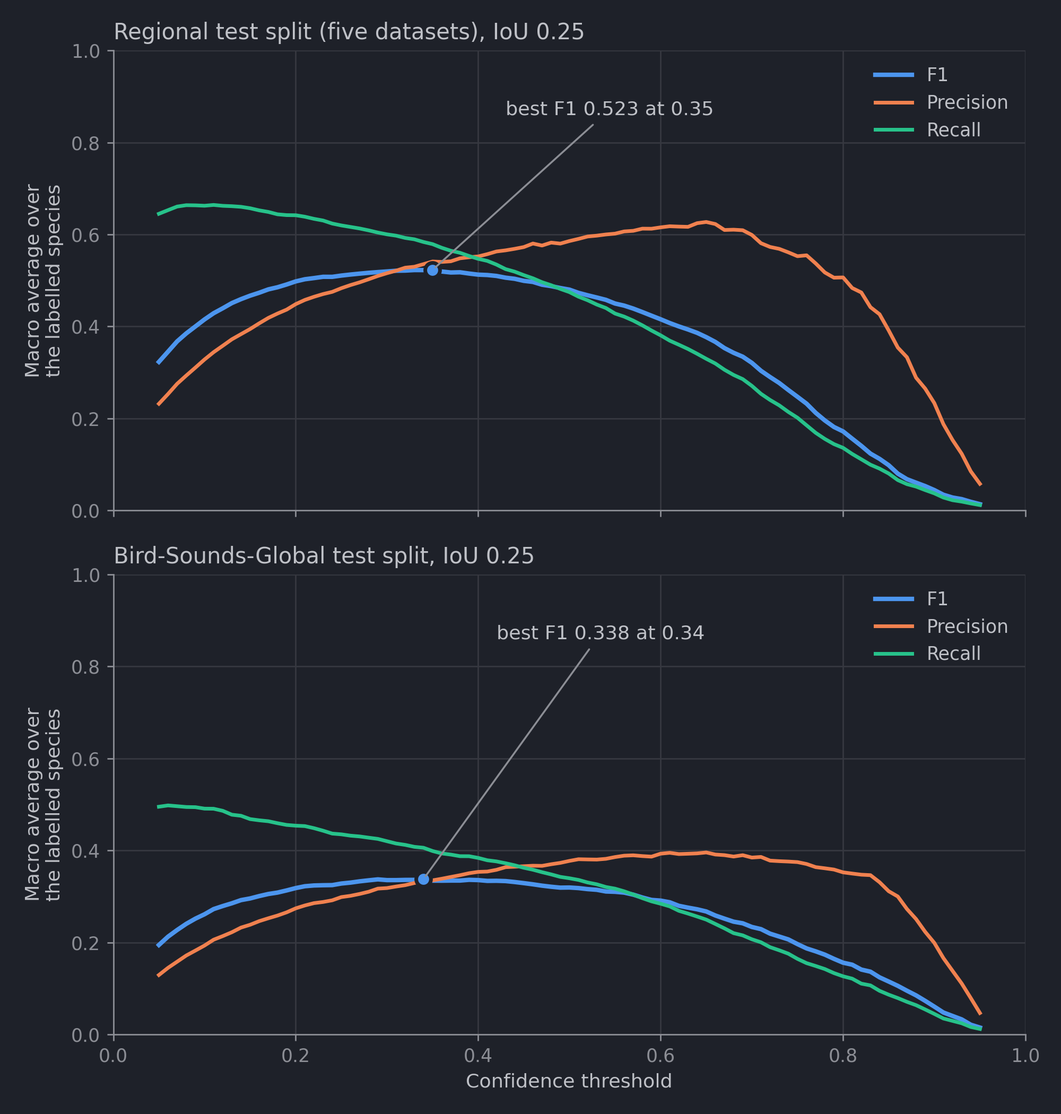
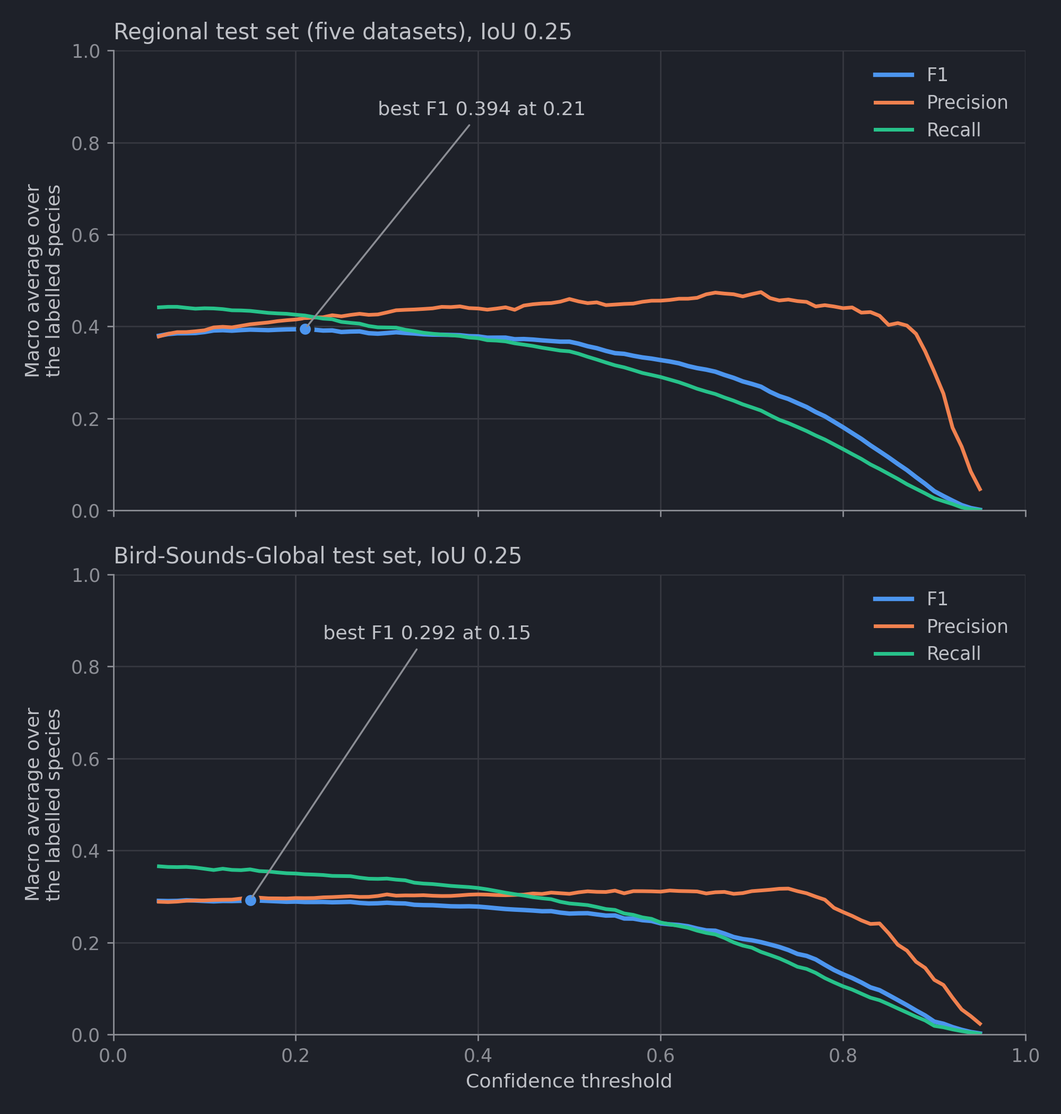
Birds-With-Labels: model page for the bird-class model, names at 0.25
The model page scores BirdBox as it ships: finding calls against Just-Bird,
species by presence and bout-aware matching, and box by box. Boxes named bird
are not counted as species. New F1, top-species and training figures.

Names at a species score of 0.25 instead of 0.15: better on the joined val
splits for whole recordings, inside songs and either way.

Window fusion anchor links follow the renamed heading.

diff --git a/docs/javascripts/demo/demo.js b/docs/javascripts/demo/demo.js
@@ -762,7 +762,7 @@ class Demo {
    * the box is named bird.
    */
   _name(songs, raw, conf) {
-    const d = raw.data, bird = this.model.bird_class_id, need = this.model.label_conf ?? 0.15;
+    const d = raw.data, bird = this.model.bird_class_id, need = this.model.label_conf ?? 0.25;
     if (this._centres?.rows !== raw.rows || this._centres.data !== d) {
       const order = [];
       for (let r = 0; r < raw.rows; r++) order.push(r);

diff --git a/src/inference/utils/bird_labels.py b/src/inference/utils/bird_labels.py
@@ -31,7 +31,10 @@ BIRD_CLASS_NAME = "bird"
 # Species scores pooled over the anchors that overlap a kept box at this IoU.
 DEFAULT_POOL_IOU = 0.5
 # A box is named after its top species when that species' score reaches this.
-DEFAULT_LABEL_CONF = 0.15
+# Joined val (Birds-With-Labels, bird class), best macro F1 at 0.15 / 0.25 / 0.35:
+# presence per recording 0.591 / 0.627 / 0.617, bout-aware inside 0.462 / 0.469 /
+# 0.447, either way 0.471 / 0.478 / 0.458, per 3 s 0.516 / 0.510 / 0.475.
+DEFAULT_LABEL_CONF = 0.25
 TOP_K = 3
 
 

diff --git a/docs/models-and-metrics/birds-with-labels.md b/docs/models-and-metrics/birds-with-labels.md
@@ -2,31 +2,80 @@
 
 The Birds-With-Labels model combines all five zenodo datasets mentioned in the [introduction](overview.md#available-models) with Bird-Sounds-Global, annotated soundscapes from [xeno-canto](https://xeno-canto.org){ target="_blank" rel="noopener noreferrer" }.
 The five datasets bring almost 407 hours of soundscape recordings with 155,584 bounding box labels of 281 bird species. Bird-Sounds-Global adds 111 hours with 62,030 labels of 765 species from many countries.
-The model has 633 classes: the 281 regional species, the 351 Bird-Sounds-Global species with at least 10 training labels in at least 3 recordings, and the unknown class `????` for the rest.
+The model has 634 classes: the 281 regional species, the 351 Bird-Sounds-Global species with at least 10 training labels in at least 3 recordings, the unknown class `????` for the rest, and `bird` for calls of any species.
+
+It finds calls as [Just-Bird](just-bird.md) does, with one tight box per call, and names each box after its species when it is sure. Otherwise the box is named `bird`. [Species Names](../how-it-works/overview.md#species-names) explains how.
+
+!!! info "Call boxes and a bird class (November 2026)"
+    Until November 2026 the model drew one box per species over a whole song, and found far fewer calls than Just-Bird. The current model was trained on call boxes and has a `bird` class that every box trains, whatever its species. Its classes 0 to 632 keep their ids, so the species mapping `Birds-With-Labels` serves both models. BirdBox recognises the new model by its last class, `bird`.
 
 !!! info "Formerly All-In-One"
     Until 28 October 2026 this model was called All-In-One. Files made before then still carry the old name: rename `All-In-One.pt` to `Birds-With-Labels_fp32.pt` and pass `--species-mapping Birds-With-Labels`. BirdBox no longer accepts the old name.
 
-!!! info "Bird-Sounds-Global species (November 2026)"
-    Until November 2026 the model knew only the 282 classes of the five datasets. The current model learned 351 more species from Bird-Sounds-Global. It was trained on spectrograms with the rolling 60 s noise floor, BirdBox's default. The scores on this page were measured with the deprecated segment floor, and the rolling floor scores the same (see [Floor](#floor)).
-
-    The previous model's classes keep their ids, so the species mapping `Birds-With-Labels` serves both models.
-
 More on Birds-With-Labels:
 
-- [Training](birds-with-labels-training.md): training curves and boxes per species and split.
+- [Training](birds-with-labels-training.md): how the call boxes and the bird class were trained, and boxes per species and split.
 - [Model Types](birds-with-labels-model-types.md): the export formats and how closely they match the PyTorch model.
+
+All scores on this page come from BirdBox as it ships: the rolling noise floor (each test minute after the audio before it), window fusion with a 0.05 s phrase gap, and names at a species score of 0.25. The thresholds are chosen on the val splits.
+
+---
+
+## Finding Calls
+
+With species ignored, the model finds calls as well as Just-Bird. Every box and every label counts as `bird`, so F1 measures finding calls alone. Both models use Just-Bird's NMS (IoU 0.5) and the merge and threshold that score best on val.
+
+| Test set | Just-Bird | Birds-With-Labels |
+| :--- | :---: | :---: |
+| Five datasets, IoU 0.25 | 0.404 | 0.412 |
+| Five datasets, IoU 0.5 | 0.223 | 0.235 |
+| Bird-Sounds-Global, IoU 0.25 | 0.367 | 0.377 |
+| Bird-Sounds-Global, IoU 0.5 | 0.195 | 0.197 |
+| Hawai'i and Southern Sierra Nevada (labelled per call), IoU 0.5 | 0.558 | 0.576 |
+| Hawai'i and Southern Sierra Nevada (labelled per call), IoU 0.75 | 0.297 | 0.291 |
+
+Just-Bird was trained on the test splits of Birds-With-Labels too, so it has seen these recordings. On 14 soundscapes from other places, Just-Bird's boxes (confidence 0.15) serve as the reference. The model draws about as many boxes, covers 76% of Just-Bird's (each by at least half of its duration), and 7% of its boxes lie elsewhere. The previous model covered 31%.
+
+---
+
+## Species
+
+Two kinds of test tell apart how well the model names species and how well its boxes match the labels. Most labels of the five datasets and Bird-Sounds-Global box a whole song, while the model boxes each call.
+
+**Which species are there, and where.** These tests do not depend on the shape of the boxes. Presence asks whether a species is detected in each 3 s segment or recording where it is labelled. Bout-aware matching counts a label as found when boxes of its species lie inside it, and a box as correct when it lies inside a label of its species. Macro F1 over the labelled species of the five datasets and Bird-Sounds-Global together:
+
+| Test | Previous model | Birds-With-Labels |
+| :--- | :---: | :---: |
+| Presence, 3 s segments | 0.515 | 0.512 |
+| Presence, whole recordings | 0.610 | 0.621 |
+| Bout-aware, boxes inside a label | 0.440 | 0.477 |
+| Bout-aware, either way | 0.477 | 0.486 |
+
+The model names species as well as the previous one, and better within songs.
+
+**Box by box.** Each box has to overlap a label of its species at the given IoU:
+
+| Test set | Previous model | Birds-With-Labels |
+| :--- | :---: | :---: |
+| Five datasets, IoU 0.25 | 0.524 | 0.389 |
+| Bird-Sounds-Global, IoU 0.25 | 0.337 | 0.304 |
+| Hawai'i and Southern Sierra Nevada (labelled per call), IoU 0.5 | 0.488 | 0.492 |
+| Hawai'i and Southern Sierra Nevada (labelled per call), IoU 0.75 | 0.247 | 0.260 |
+
+On labels per call the model is as good as the previous one, and its boxes are tighter. On song labels it scores lower: one song label meets several call boxes, and at most one of them can match it.
+
+Boxes named `bird` are not counted in these tests. They claim a call, not a species.
 
 ---
 
 ## Precision, Recall and F1-Score
 
-The graph below shows the performance of the model on the **test splits** under different confidence thresholds: precision, recall and the F1-score, each averaged over the species with test labels (macro average).
-The upper panel is the test split of the five datasets, the lower one the test split of Bird-Sounds-Global.
-To optimize the F1-score, pick a confidence threshold around 0.35. The demo starts at 0.25, which keeps more detections at a lower precision.
+The graph below shows precision, recall and F1 on the **test splits** against the confidence threshold, each averaged over the species with test labels (macro average), at IoU 0.25.
+The upper panel is the test split of the five datasets, the lower one the test split of Bird-Sounds-Global. The confidence is the bird score, so the threshold decides which calls are found. Which of them get a species name is decided by the species score.
+Both test splits are labelled mostly per song, so the scores are lower than on call labels (see [Species](#species)). The default threshold is 0.21.
 
-<img src="../../img/metrics/birds_with_labels_F1.png#only-light" width="1000" alt="Macro precision, recall and F1 for every confidence threshold, best F1 0.523 at 0.35 on the regional test split and 0.338 at 0.34 on the Bird-Sounds-Global test split">
-<img src="../../img/metrics/birds_with_labels_F1_dark.png#only-dark" width="1000" alt="Macro precision, recall and F1 for every confidence threshold, best F1 0.523 at 0.35 on the regional test split and 0.338 at 0.34 on the Bird-Sounds-Global test split">
+<img src="../../img/metrics/birds_with_labels_F1.png#only-light" width="1000" alt="Macro precision, recall and F1 for every confidence threshold, best F1 0.394 at 0.21 on the regional test split and 0.292 at 0.15 on the Bird-Sounds-Global test split">
+<img src="../../img/metrics/birds_with_labels_F1_dark.png#only-dark" width="1000" alt="Macro precision, recall and F1 for every confidence threshold, best F1 0.394 at 0.21 on the regional test split and 0.292 at 0.15 on the Bird-Sounds-Global test split">
 
 !!! info "Average over the labelled species"
     The F-beta analysis (`f_beta_score_analysis.py`) also averages over species that have detections but no test labels, each with an F1 of 0 (`Overall_Macro`). A model with more classes has more of them, so this page averages over the labelled species only: 184 in the regional test split, 357 in Bird-Sounds-Global.
@@ -34,38 +83,12 @@ To optimize the F1-score, pick a confidence threshold around 0.35. The demo star
 !!! info "Starting at 0.05"
     The test detections were made at a confidence of 0.05, so the curves start there.
 
-### Compared to the previous model
-
-Both models scored the same way: the segment floor, each test minute and each Bird-Sounds-Global recording on its own, the threshold chosen on the val splits, F1 averaged over the labelled species, IoU 0.25. The last two rows use one threshold for both test splits.
-
-| Test split | Previous model (282 classes) | Current model (633 classes) |
-| :--- | :---: | :---: |
-| Five datasets, 184 species | 0.540 | 0.523 |
-| Bird-Sounds-Global, 357 species | 0.001 | 0.334 |
-| Both, 516 species | 0.170 | 0.407 |
-| Species with an F1 of at least 0.5 (of 516) | 85 | 187 |
-
-The current model finds 351 more species, but it is slightly worse on the species of the five datasets: 0.018 lower (95% interval 0.002 to 0.030, paired bootstrap over recordings). The difference is largest in the Amazon Basin and on Hawai'i (about 0.03) and small in the three US datasets (0.002 to 0.011). At IoU 0.5 the two models score 0.427 and 0.396.
-
-### Floor { #floor }
-
-The model was trained on spectrograms with the rolling noise floor, BirdBox's default, where each clip's floor comes from the 60 s before its end. The scores above were measured with the segment floor, as BirdBox took it until November 2026. On the regional test split both floors score about the same (macro F1, threshold chosen on val):
-
-| Noise floor | Previous model | Current model |
-| :--- | :---: | :---: |
-| Rolling, each minute after the minute before it | 0.541 | 0.522 |
-| Rolling, each minute alone | 0.534 | 0.517 |
-| Segment floor, `BIRDBOX_FLOOR_WINDOW=segment` | 0.540 | 0.523 |
-
-The rolling floor has less audio at the start of a recording, so both models lose a little in the first minute of a file. The gap between the two models stays the same.
-
 ---
 
 ## Top Performing Species
 
 The figure shows the F1-score against the confidence threshold for the 12 best species among the 82 with at least 50 labels in the regional test split.
-Species with fewer labels are left out: with only a few labels, a high F1 is mostly chance. One species reaches an F1 of 1.0, the House Wren on 13 test labels.
-At a confidence threshold of 0.35, 11 of the 12 species reach an F1 of at least 0.78. The Scarlet Tanager reaches 0.63 there and 0.81 at 0.64.
+Species with fewer labels are left out: with only a few labels, a high F1 is mostly chance. The 12 species reach a best F1 of 0.78 to 0.95.
 
 <img src="../../img/metrics/birds_with_labels_top.png#only-light" width="1000" alt="F1 against the confidence threshold for the 12 best species with at least 50 regional test labels">
 <img src="../../img/metrics/birds_with_labels_top_dark.png#only-dark" width="1000" alt="F1 against the confidence threshold for the 12 best species with at least 50 regional test labels">

diff --git a/docs/how-it-works/spectrogram.md b/docs/how-it-works/spectrogram.md
@@ -125,7 +125,7 @@ features = (db[:, clip_frames] - floor + 3.0) * (100.0 / 48.0)   # -3..45 dB abo
 
 **What it gives.** A recorder's gain adds the same number of decibels to every band and cancels when the floor is subtracted, so the same scene gives the same image whatever the recording level. A loud sound barely moves a 20th percentile, so the quiet tail after a loud call stays visible.
 
-**Why a rolling floor.** Nothing after a clip changes its pixels, so a clip's boxes are final as soon as the audio reaches its end. A recording in progress gets the boxes of the saved file while it is still recording (see [Recording](demo-detection.md#recording) in the demo), and the boxes of a clip do not depend on where a minute starts. Until November 2026 the floor was taken over each clip's whole 60 s segment. For Just-Bird, which was trained on that floor, the rolling floor scores level on the validation and hold-out recordings, and slightly better on long files (results in the [BirdBox-Train repository](https://github.com/birdnet-team/BirdBox-Train){ target="_blank" rel="noopener noreferrer" }, `holdout_ssn/RESULTS.md`). Birds-With-Labels was trained on rolling-floor images and scores the same with both floors (see its [Floor](../models-and-metrics/birds-with-labels.md#floor) section).
+**Why a rolling floor.** Nothing after a clip changes its pixels, so a clip's boxes are final as soon as the audio reaches its end. A recording in progress gets the boxes of the saved file while it is still recording (see [Recording](demo-detection.md#recording) in the demo), and the boxes of a clip do not depend on where a minute starts. Until November 2026 the floor was taken over each clip's whole 60 s segment. For Just-Bird, which was trained on that floor, the rolling floor scores level on the validation and hold-out recordings, and slightly better on long files (results in the [BirdBox-Train repository](https://github.com/birdnet-team/BirdBox-Train){ target="_blank" rel="noopener noreferrer" }, `holdout_ssn/RESULTS.md`). Birds-With-Labels was trained on rolling-floor images. Its previous version, trained the same way, scored the same with both floors.
 
 !!! warning "The segment floor is deprecated"
     `BIRDBOX_FLOOR_WINDOW=segment` still takes the floor over each clip's 60 s segment (with 2 s of context on each side, and the warm-up frames below), for comparisons with earlier results. It prints a deprecation warning and will be removed in the next release. `BIRDBOX_FLOOR_WINDOW=<seconds>` sets another window length; the models were trained with 60.

diff --git a/docs/cli/filter-and-merge-detections.md b/docs/cli/filter-and-merge-detections.md
@@ -32,7 +32,7 @@ Filter raw bird call detections by confidence threshold and merge them into song
 | `--conf` | `FLOAT` / model default | No | Confidence threshold for filtering (0.0–1.0). All raw detections with `confidence < threshold` are discarded before merging. Omit to use the default for `model_config.species_mapping`: `0.15` for Just-Bird, `0.2` for the other models. |
 | `--song-gap` | `FLOAT` / from JSON or `0.1` | No | Maximum temporal gap in seconds between two detections of the same species that are still merged into one song segment. When omitted, the value stored in the JSON's `model_config.song_gap_threshold` is used. Falls back to `0.1` if not present. |
 | `--freq-iou` | `FLOAT` / `0.6` for Just-Bird, off otherwise | No | Just-Bird only. Minimum frequency IoU required before two bird detections merge into one song. Omit to use `model_config.freq_iou_threshold` when present, otherwise `0.6`. Pass a negative value for the time-only merger. Other species mappings ignore this flag. |
-| `--merge` | `CHOICE` / `auto` | No | `fusion` (window ownership + weighted box fusion) or `reconstruct` (song merge with `--song-gap` / `--freq-iou`). `auto` uses `model_config.merge_method` from the JSON, else `fusion` for Just-Bird and `reconstruct` for Birds-With-Labels. See [Window fusion](../how-it-works/overview.md#window-fusion-just-bird). |
+| `--merge` | `CHOICE` / `auto` | No | `fusion` (window ownership + weighted box fusion) or `reconstruct` (song merge with `--song-gap` / `--freq-iou`). `auto` uses `model_config.merge_method` from the JSON, else `fusion` for Just-Bird and `reconstruct` for Birds-With-Labels. See [Window fusion](../how-it-works/overview.md#window-fusion). |
 | `--phrase-gap` | `FLOAT` / model default | No | Fusion only. Join same-band boxes closer than this many seconds into one phrase box, `0` = off. Omit to use `model_config.phrase_gap`, else the model default (0.05 for Just-Bird, 0 for Birds-With-Labels). |
 | `--output-path` | `PATH` / `results` | No | Output directory for result files. Each format writes a fixed descriptive filename inside this directory (see [Output Files](#output-files)). The directory is created automatically if it does not exist. |
 | `--output-format` | `CHOICE [...]` / `json-with-algorithm-metadata simplified-csv` | No | One or more output formats (space-separated). Accepts `json-with-algorithm-metadata`, `simplified-csv`, `xeno-canto-annota-json`, `raven-selection-table`, or `all`. |

diff --git a/docs/cli/detect-birds.md b/docs/cli/detect-birds.md
@@ -40,7 +40,7 @@ Detect bird calls in arbitrary-length audio files using a trained YOLO model. Pr
 | `--nms-iou` | `FLOAT` / `0.7` | No | IoU threshold for Non-Maximum Suppression applied both per-clip and across overlapping time windows. Higher values keep more overlapping detections. Lower values suppress more aggressively. |
 | `--merge` | `CHOICE` / `auto` | No | How detections from the 50%-overlap windows are merged: `fusion` (window ownership + weighted box fusion, tight call-level boxes), `reconstruct` (song merge with `--song-gap` / `--freq-iou`), or `auto`: `fusion` for Just-Bird and Birds-With-Labels, `reconstruct` for other models. See [Merging the Windows](../how-it-works/overview.md#merging-the-windows). |
 | `--phrase-gap` | `FLOAT` / `0.05` (Just-Bird, Birds-With-Labels), `0` (other models) | No | Fusion only. Join boxes in the same frequency band that are closer than this many seconds into one phrase box. `0` keeps one box per call or syllable. See [Phrase Gap](../how-it-works/overview.md#phrase-gap). |
-| `--label-conf` | `FLOAT` / `0.15` | No | Birds-With-Labels only. A box is named after its top species when that species' score reaches this value, and `bird` otherwise. See [Species Names](../how-it-works/overview.md#species-names). |
+| `--label-conf` | `FLOAT` / `0.25` | No | Birds-With-Labels only. A box is named after its top species when that species' score reaches this value, and `bird` otherwise. See [Species Names](../how-it-works/overview.md#species-names). |
 | `--song-gap` | `FLOAT` / `0.1` | No | `reconstruct` merge only. Maximum temporal gap in seconds between two detections of the same species that are still merged into one continuous song segment. Increase for species with long pauses between phrases. Decrease to keep phrases separate. |
 | `--freq-iou` | `FLOAT` / `0.6` for Just-Bird, off otherwise | No | `reconstruct` merge with Just-Bird only. Minimum frequency IoU required before two `bird` detections are merged into one song. Other species mappings ignore this flag and keep the time-only merger. Pass a negative value to force the time-only merger for Just-Bird. |
 | `--num-workers` | `INT` / `1` | No | Number of CPU processes for spectrogram features, rendering, and multi-file preprocess. YOLO inference stays in the parent and runs in batches. |

diff --git a/docs/cli/f-beta-score-analysis.md b/docs/cli/f-beta-score-analysis.md
@@ -38,7 +38,7 @@ Sweep a range of confidence thresholds on raw (unmerged) detections and compute 
 | `--iou-threshold` | `FLOAT` / `0.25` | No | IoU threshold for matching a detection to a ground truth label (0.0–1.0). |
 | `--song-gap` | `FLOAT` / from JSON or `0.1` | No | Max temporal gap in seconds for merging surviving detections into song segments at each threshold step. Defaults to the value stored in the JSON's `model_config.song_gap_threshold`. |
 | `--freq-iou` | `FLOAT` / `0.6` for Just-Bird, off otherwise | No | Just-Bird only. Minimum frequency IoU required before two bird detections merge into one song at each confidence step. Omit to use the JSON value or `0.6`. Pass a negative value for the time-only merger. Other species mappings ignore this flag. |
-| `--merge` | `CHOICE` / `auto` | No | `fusion` (window ownership + weighted box fusion) or `reconstruct` (song merge with `--song-gap` / `--freq-iou`). `auto` uses `model_config.merge_method` from the JSON, else `fusion` for Just-Bird and `reconstruct` for Birds-With-Labels. See [Window fusion](../how-it-works/overview.md#window-fusion-just-bird). |
+| `--merge` | `CHOICE` / `auto` | No | `fusion` (window ownership + weighted box fusion) or `reconstruct` (song merge with `--song-gap` / `--freq-iou`). `auto` uses `model_config.merge_method` from the JSON, else `fusion` for Just-Bird and `reconstruct` for Birds-With-Labels. See [Window fusion](../how-it-works/overview.md#window-fusion). |
 | `--phrase-gap` | `FLOAT` / model default | No | Fusion only. Join same-band boxes closer than this many seconds into one phrase box, `0` = off. Omit to use `model_config.phrase_gap`, else the model default (0.05 for Just-Bird, 0 for Birds-With-Labels). |
 | `--single-cls` | flag / off | No | Collapse all species into one class for binary bird-detection evaluation. |
 | `--single-cls-name` | `STR` / `bird` | No | Class name to use when `--single-cls` is active. |

diff --git a/docs/api/detect-birds.md b/docs/api/detect-birds.md
@@ -44,7 +44,7 @@ BirdCallDetector(
 | `freq_iou_threshold` | `float` / `None` | No | `reconstruct` merge with Just-Bird only: frequency IoU gate (`None` = `0.6`, negative = time-only). |
 | `merge_method` | `str` / `None` | No | `'fusion'` (window ownership + weighted box fusion) or `'reconstruct'` (song merge). `None` or `'auto'` picks `'fusion'` for Just-Bird and Birds-With-Labels and `'reconstruct'` for other models. See [Window fusion](../how-it-works/overview.md#window-fusion). |
 | `phrase_gap` | `float` / `None` | No | Fusion only. Join same-band boxes closer than this many seconds into one phrase box. `0` keeps call-level boxes. `None` uses the model default: 0.05 s for Just-Bird and Birds-With-Labels, 0 for other models. |
-| `label_conf` | `float` / `None` | No | Birds-With-Labels only. A box is named after its top species when that species' score reaches this, and `bird` otherwise. `None` uses 0.15. See [Species Names](../how-it-works/overview.md#species-names). |
+| `label_conf` | `float` / `None` | No | Birds-With-Labels only. A box is named after its top species when that species' score reaches this, and `bird` otherwise. `None` uses 0.25. See [Species Names](../how-it-works/overview.md#species-names). |
 
 !!! warning "Memory Usage"
     Extra workers are render processes, not extra model copies. The parent holds one YOLO model. Workers use additional RAM for matplotlib/librosa, not another set of weights.

diff --git a/docs/models-and-metrics/just-bird-label-refinement.md b/docs/models-and-metrics/just-bird-label-refinement.md
@@ -169,7 +169,7 @@ Every score is the same or up to 0.005 higher, no more than a second training ru
 
 ## Nested Boxes in the Refined Labels
 
-In the round-2 labels, about half of the boxes of the four refined datasets lie at least 80% inside a larger box of the same clip. Nearly all of these pairs (97–99.7%) lie inside one human box: teacher 2 often draws a phrase box and the syllable boxes inside it, both pass the half-inside test, and the merge in step 4 of [the rule](#the-rule) only catches near-duplicates (IoU ≥ 0.6), not a small box inside a large one. [Window fusion](../how-it-works/overview.md#window-fusion-just-bird) removes nested boxes from the model's output, but the training labels keep them.
+In the round-2 labels, about half of the boxes of the four refined datasets lie at least 80% inside a larger box of the same clip. Nearly all of these pairs (97–99.7%) lie inside one human box: teacher 2 often draws a phrase box and the syllable boxes inside it, both pass the half-inside test, and the merge in step 4 of [the rule](#the-rule) only catches near-duplicates (IoU ≥ 0.6), not a small box inside a large one. [Window fusion](../how-it-works/overview.md#window-fusion) removes nested boxes from the model's output, but the training labels keep them.
 
 | Dataset | Boxes inside a larger box, human labels | Round 2 |
 | :--- | :---: | :---: |

diff --git a/docs/models-and-metrics/just-bird-species-from-birdnet.md b/docs/models-and-metrics/just-bird-species-from-birdnet.md
@@ -17,7 +17,7 @@ Those windows are not centred on the box. Does that cost accuracy?
 | Placement | Windows for a box | Used |
 | :--- | :--- | :--- |
 | `centred` | One 3 s window centred on the box. A box over 3 s: windows from its start, every 1.5 s. | Demo until November 2026 |
-| `grid15` | BirdBox's windows, one every 1.5 s. A box up to 1.5 s takes the window that owns its centre (the middle 1.5 s of a window, as in the [window fusion](../how-it-works/overview.md#window-fusion-just-bird)). A longer box takes the windows from the one around its first 1.5 s to the one around its last. | Demo since November 2026 |
+| `grid15` | BirdBox's windows, one every 1.5 s. A box up to 1.5 s takes the window that owns its centre (the middle 1.5 s of a window, as in the [window fusion](../how-it-works/overview.md#window-fusion)). A longer box takes the windows from the one around its first 1.5 s to the one around its last. | Demo since November 2026 |
 | `grid075` | As `grid15`, on windows every 0.75 s. Twice the BirdNET work. | |
 | `inside15` | As `grid15`, and a box up to 1.5 s also takes a neighbouring window it lies wholly in. | |
 | `fit15` | As `grid15`, but a box up to 3 s takes only the window that owns its centre when it lies wholly inside it. | |

diff --git a/docs/how-it-works/overview.md b/docs/how-it-works/overview.md
@@ -67,7 +67,7 @@ Birds-With-Labels has a `bird` class next to its species, trained on every box w
 
 1. **Boxes from the bird score.** Boxes above the confidence go through non-maximum suppression on the bird score, across species. So one call gets one box, never one box per species.
 2. **Species from the boxes around it.** Each kept box takes, per species, the highest score among the boxes of its window that overlap it at IoU 0.5 or more.
-3. **A name when the model is sure.** A box is named after its top species when that score reaches 0.15 (`--label-conf`), and `bird` otherwise. The output keeps the top three species with their scores as `alternatives`.
+3. **A name when the model is sure.** A box is named after its top species when that score reaches 0.25 (`--label-conf`), and `bird` otherwise. The output keeps the top three species with their scores as `alternatives`.
 4. **Merging without names.** Window fusion runs on all boxes as one class, as for Just-Bird. Each merged box then takes, per species, the highest score among the raw boxes whose centre lies inside it, and is named the same way.
 
 The confidence of a box is its bird score. `species_confidence` is the score of its top species.

diff --git a/docs/models-and-metrics/just-bird.md b/docs/models-and-metrics/just-bird.md
@@ -1,6 +1,6 @@
 # Just-Bird Model
 
-The Just-Bird model has a single class, `bird`. It finds bird vocalizations of any species and draws a tight box around each call. Detections are merged with [window fusion](../how-it-works/overview.md#window-fusion-just-bird) by default, which also joins same-band boxes less than 0.05 s apart into one phrase box (`--phrase-gap`, `0` keeps one box per call).
+The Just-Bird model has a single class, `bird`. It finds bird vocalizations of any species and draws a tight box around each call. Detections are merged with [window fusion](../how-it-works/overview.md#window-fusion) by default, which also joins same-band boxes less than 0.05 s apart into one phrase box (`--phrase-gap`, `0` keeps one box per call).
 
 The current model was trained on 1 November 2026 and replaces the model of 20 October 2026. It is the first Just-Bird model that sees [log-floor spectrograms](../how-it-works/spectrogram.md#stage-5-log-floor-normalization) instead of PCEN, and its labels were rebuilt with two changes to the label refinement.
 
